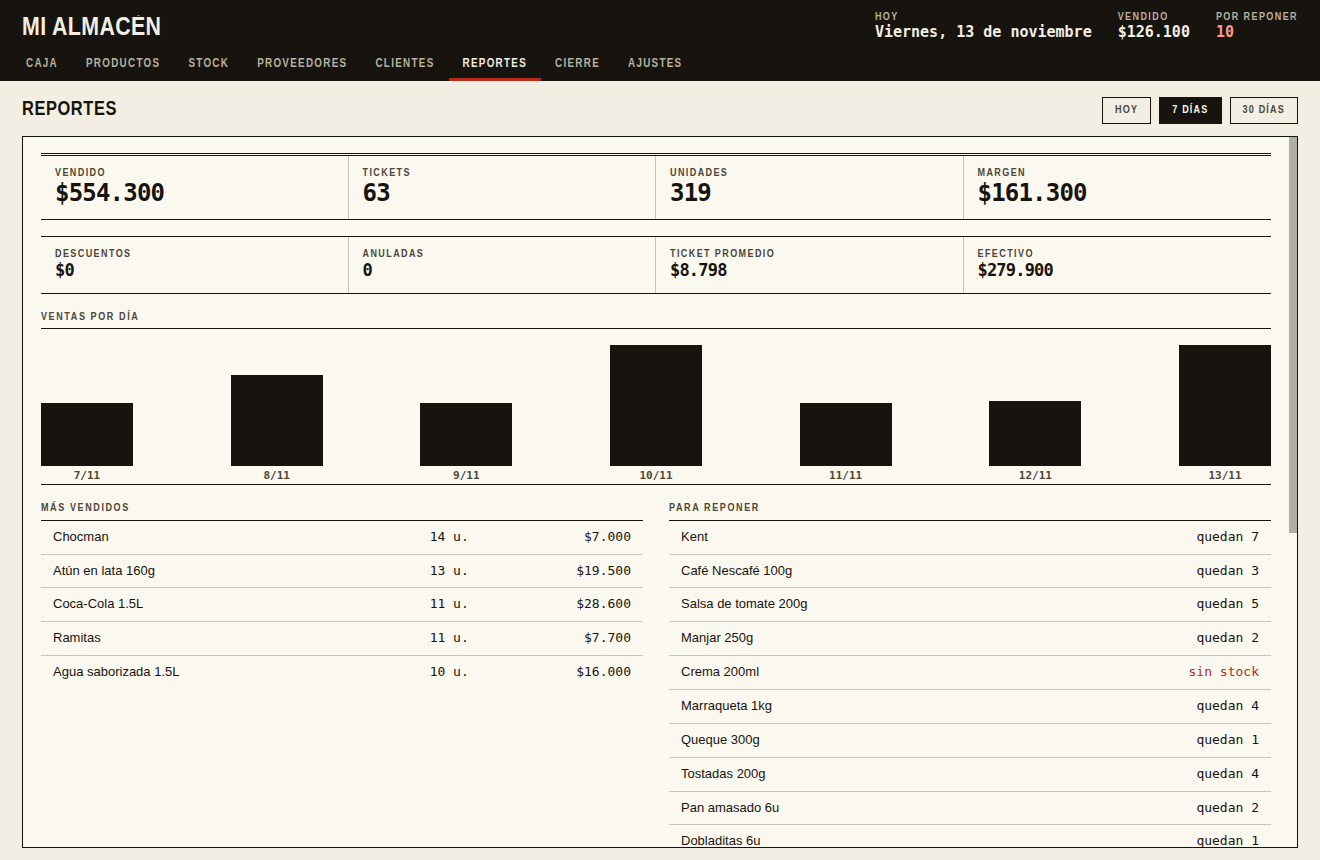
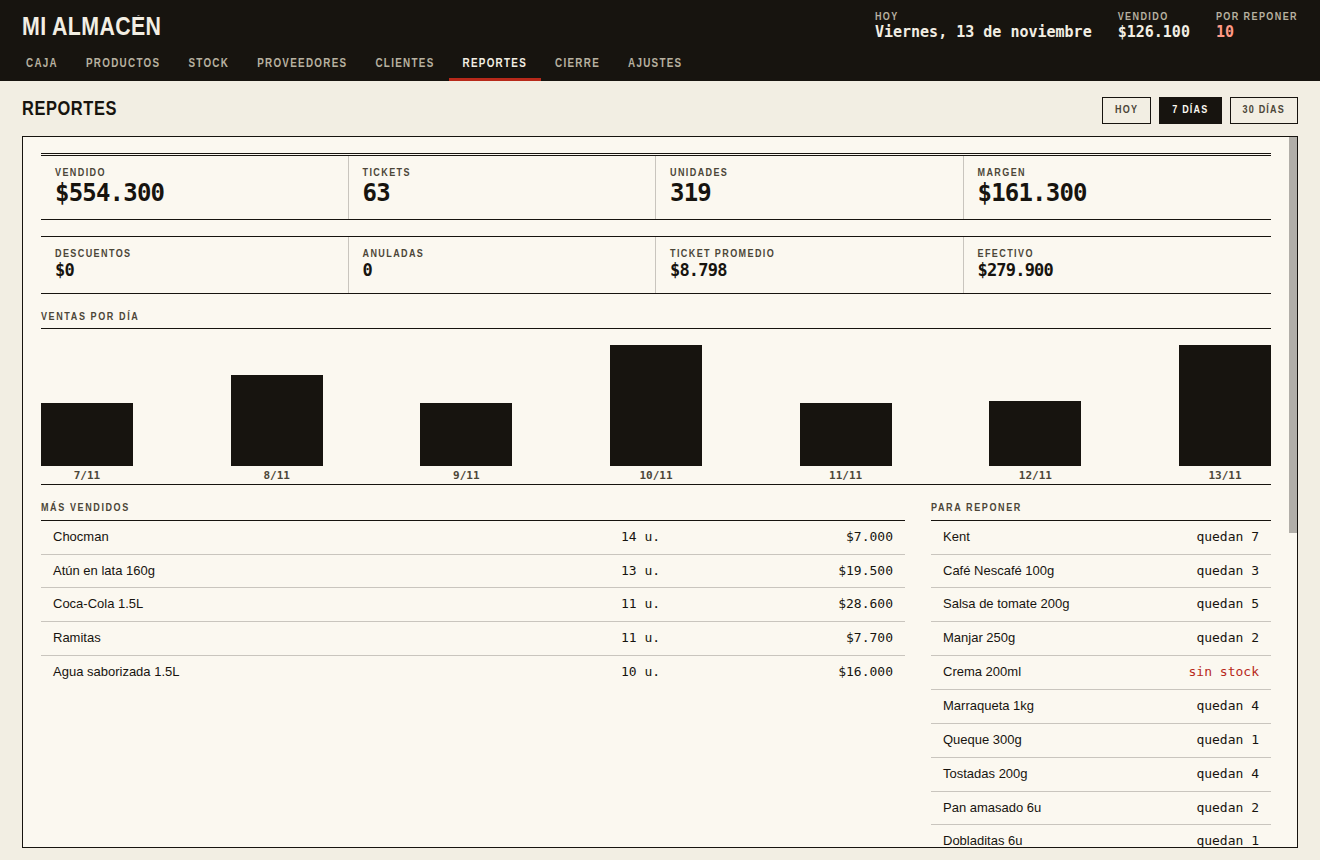
v0.3.1: adaptación a cualquier pantalla, CI y repo profesional

diff --git a/CHANGELOG.md b/CHANGELOG.md
@@ -2,6 +2,18 @@
 
 Todas las versiones publicadas de Bodega. El formato sigue [Keep a Changelog](https://keepachangelog.com/es-ES/1.1.0/) y el proyecto usa [versionado semántico](https://semver.org/lang/es/).
 
+## [0.3.1] — 2026-11-14
+
+### Agregado
+
+- Adaptación a cualquier tamaño de ventana: de 880×560 a monitores grandes. El ticket cede ancho antes que la grilla, y en ventanas angostas la venta pasa abajo.
+- CI en GitHub Actions (Node 20 y 22), plantillas de issue y de pull request, changelog y guía de contribución.
+
+### Corregido
+
+- La fila incompleta de la grilla dejaba ver el fondo negro entre celdas.
+- El texto funcional por debajo de 11px en etiquetas, badges y encabezados de tabla.
+
 ## [0.3.0] — 2026-11-13
 
 Rediseño completo de la interfaz.

diff --git a/README.md b/README.md
@@ -17,8 +17,8 @@ Para el almacén de barrio que hoy anota las ventas en un cuaderno o en una plan
 
 | Plataforma | Archivo |
 |---|---|
-| Windows 10/11 (x64) | [`Bodega Setup 0.3.0.exe`](https://github.com/blehgk/bodega/releases/latest) |
-| Linux | [`Bodega-0.3.0.AppImage`](https://github.com/blehgk/bodega/releases/latest) |
+| Windows 10/11 (x64) | [`Bodega Setup 0.3.1.exe`](https://github.com/blehgk/bodega/releases/latest) |
+| Linux | [`Bodega-0.3.1.AppImage`](https://github.com/blehgk/bodega/releases/latest) |
 
 ## Diseño
 
